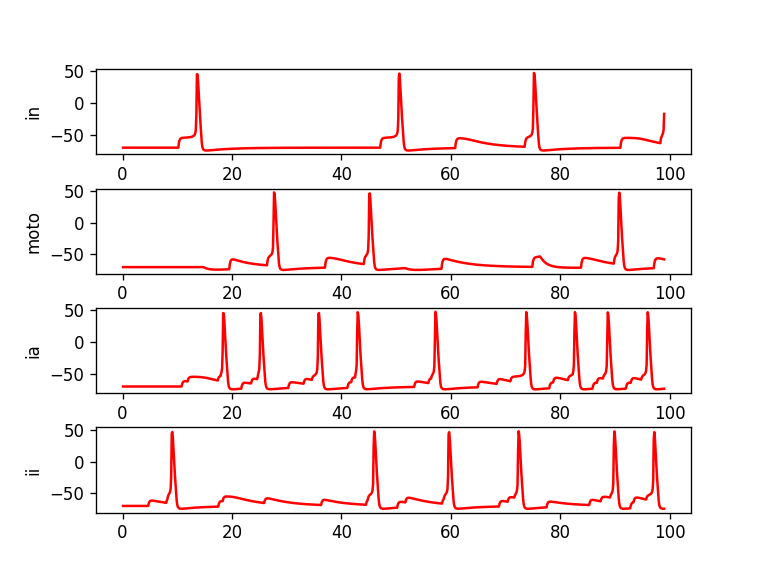
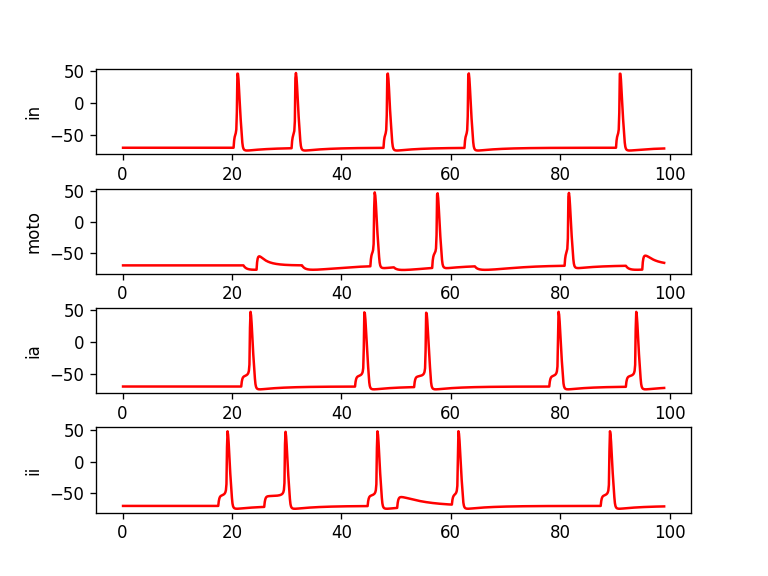
Change

diff --git a/reflex_arc/nest/rate_300.py b/reflex_arc/nest/rate_300.py
@@ -3,7 +3,7 @@
 import nest
 import os
 
-from reflex_arc.nest.plotter import plot
+from reflex_arc.nest.plotter import plot, simple_plot
 import shutil
 
 nest.ResetKernel()
@@ -26,15 +26,20 @@ nrn_parameters = {
 
 conn_spec = {'rule': 'one_to_one'}
 
+glu_weight = 185.
+gaba_weight = -70.
+static_weight = 100.
+generator_rate = 300.
+
 glu = {'model': 'static_synapse',
       'delay': 1.,
-      'weight': 185.}
+      'weight': glu_weight}
 
 gaba = {'model': 'static_synapse',
         'delay': 1.,
-        'weight': -70.}
+        'weight': gaba_weight}
 
-static_syn = {'weight': 100.,
+static_syn = {'weight': static_weight,
               'delay': 1.}
 
 
@@ -57,7 +62,7 @@ nest.Connect(pre=i_n, post=m_n, conn_spec=conn_spec, syn_spec=gaba)
 
 
 generators = nest.Create("poisson_generator", 2, {
-                        'rate': 300.})
+                        'rate': generator_rate})
 
 nest.Connect(pre=[generators[0]], post=i_a, syn_spec=static_syn)
 
@@ -88,5 +93,5 @@ nest.Simulate(100.)
 
 # nest.voltage_trace.from_device(mm, title='Moto')
 # nest.voltage_trace.show()
-plot()
+plot(generator_rate, glu_weight, gaba_weight, static_weight)
 

diff --git a/reflex_arc/nest/plotter.py b/reflex_arc/nest/plotter.py
@@ -20,10 +20,23 @@ def plot_one(name):
     pylab.ylabel(name)
 
 
-def plot():
+def plot(gen_rate, glu_weight, gaba_weight, static_weight):
+    print("plot start")
     for i in range(4):
         pylab.subplot(4, 1, i + 1)
         plot_one(names[i-1])
     # pylab.show()
+    print("plot end")
     pylab.subplots_adjust(hspace=0.4)
-    pylab.savefig('result.png', dpi=120)
+    pylab.savefig('result{}Hz_glu{}_gaba{}_stat{}.png'.format(gen_rate, glu_weight, gaba_weight, static_weight), dpi=120)
+
+
+def simple_plot(name):
+    print("plot start")
+    for i in range(4):
+        pylab.subplot(4, 1, i + 1)
+        plot_one(names[i-1])
+    # pylab.show()
+    print("plot end")
+    pylab.subplots_adjust(hspace=0.4)
+    pylab.savefig('result{}.png'.format(name), dpi=120)
